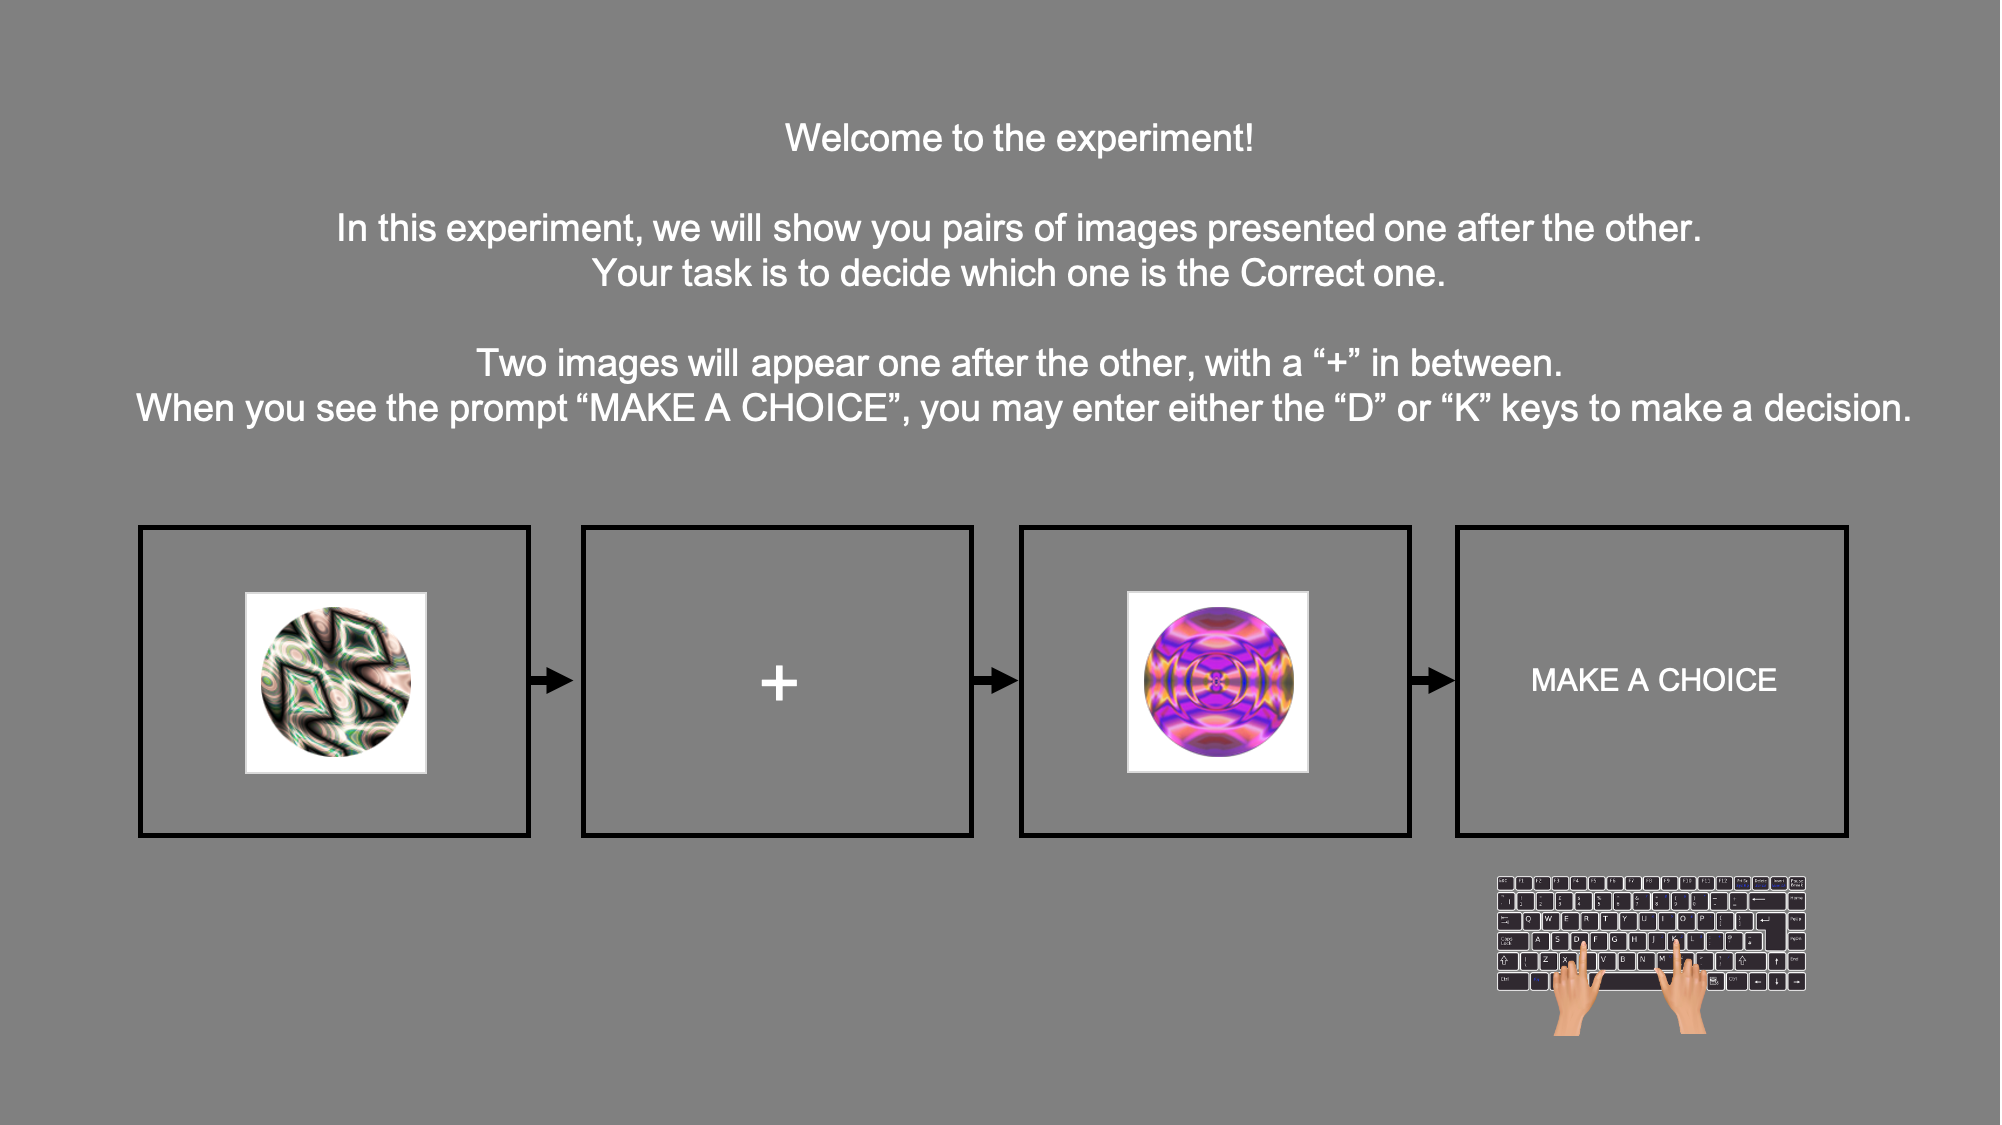
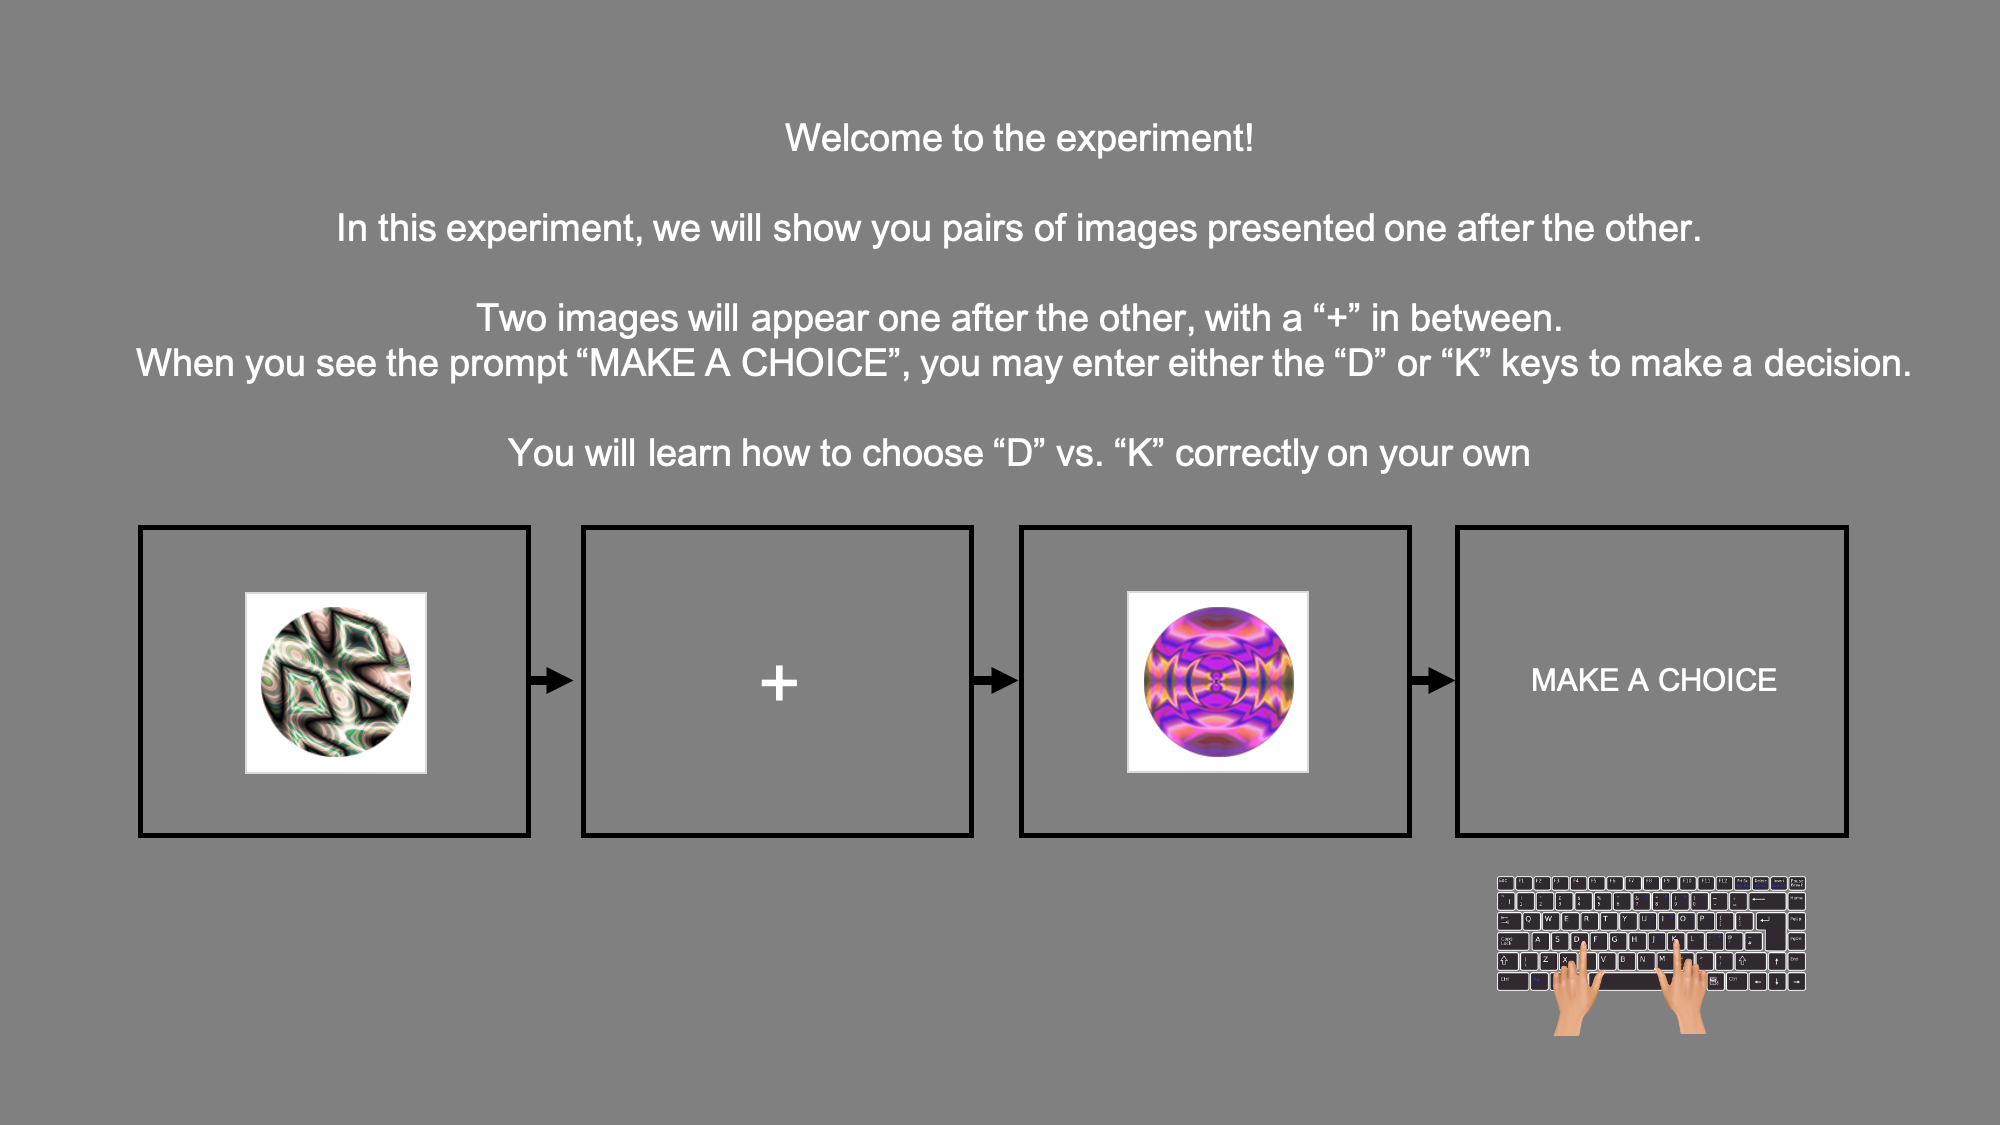
change instruction

Changed region(s): [[0.0619, 0.2178, 0.96, 0.4356]]

diff --git a/Task/start_exp.html b/Task/start_exp.html
@@ -267,7 +267,7 @@ if (is_self_initiation == 1){
 var quiz_qs = {decisions:
   [{prompt: "True or False: You will see pairs of images, one after the other, and will select the correct image",
     options: ["True", "False"]},
-   {prompt: "True or False: You will learn which key to press and what is the correct image with trial and error",
+   {prompt: "True or False: You will learn how the keys (D and K) relate to the images",
     options: ["True", "False"]},
   {prompt: "When should you make your choice?",
    options: ["While the images are shown", "When you see the prompt 'MAKE A CHOICE' after the second image was presented"]},
